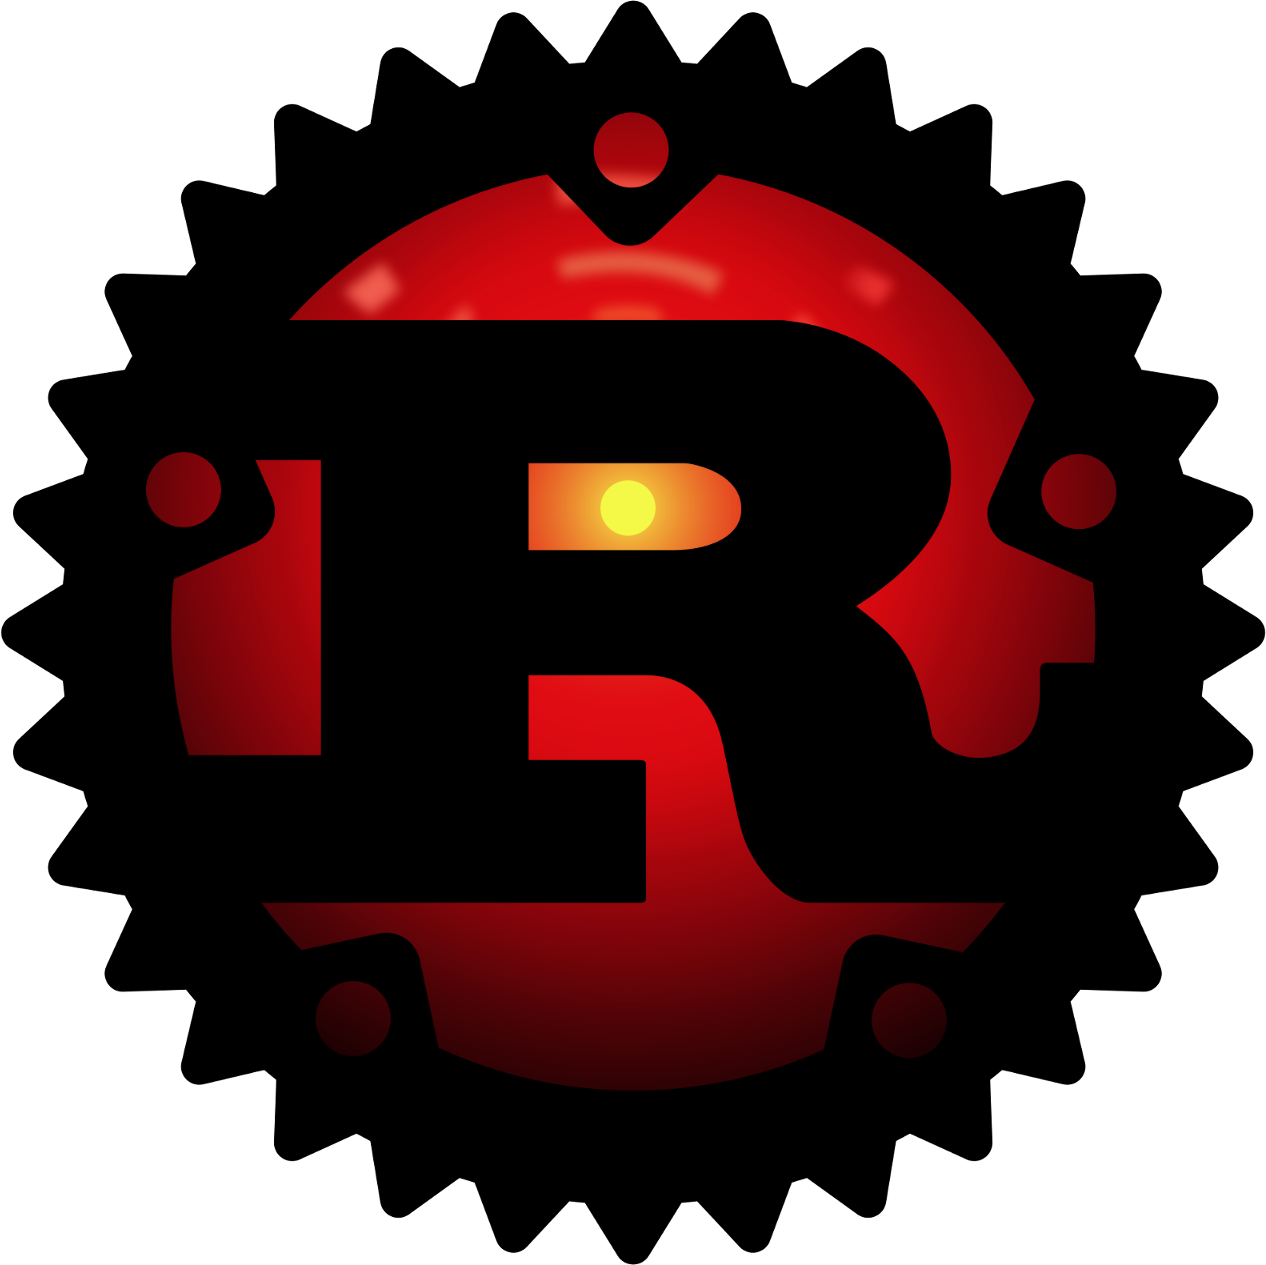
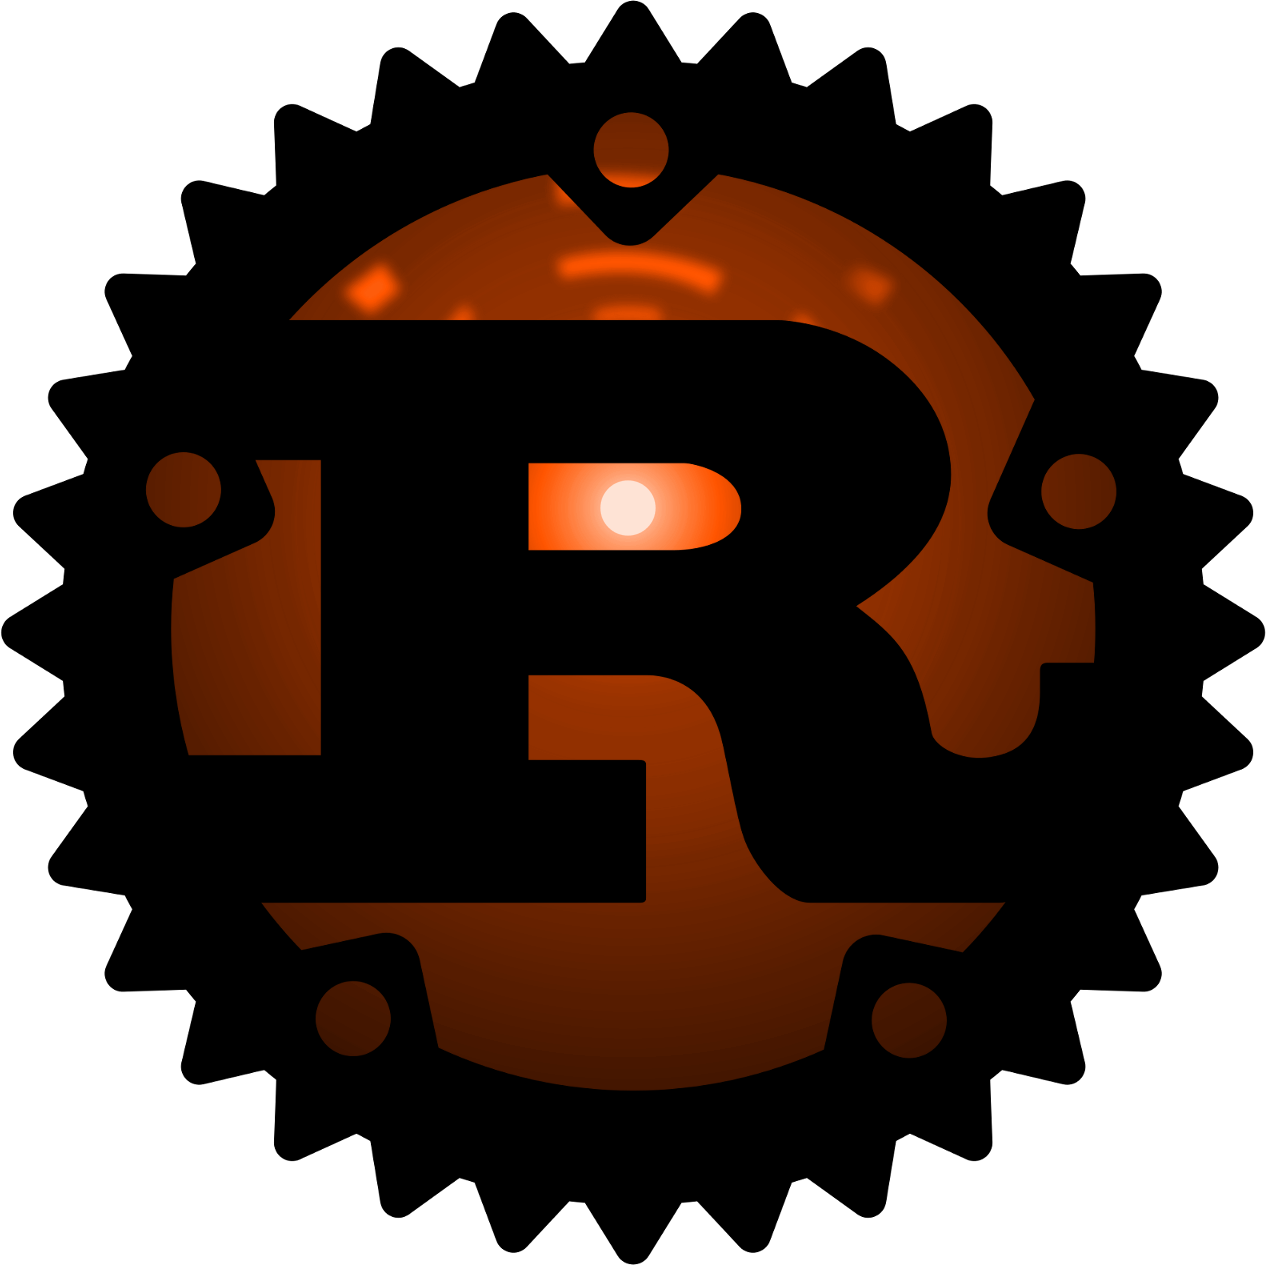
Lots of style cleanup

diff --git a/_sass/_base.scss b/_sass/_base.scss
@@ -31,15 +31,6 @@ a:active {
   color: darken($primary-color, 15%);
 }
 
-
-.github-fork-ribbon {
-    &:before, &:after {
-        background-color: #eee;
-        border-color: #333;
-    }
-    &:after { color: #333; }
-}
-
 h1 {
     padding-top: 20px;
     letter-spacing: -0.2rem;
@@ -58,30 +49,47 @@ b, strong {
 
 .site-header {
     padding: 5px 0;
-    font-size: 2rem;
+    font-size: 20px;
     line-height: 24px;
-    img { width: 24px; height: 24px; }
     background-color: #333;
+    img {
+        width: 24px;
+        height: 24px;
+        margin-top: -3px;
+    }
 }
 
 .site-footer {
-    margin: 20px 0;
+    margin: 10px 0 0px;
 }
 
 .site-nav-link {
   padding-left: 20px;
 }
-.site-header {
-  font-size: 24px;
-}
 
 .hero {
-    padding-top: 40px;
-    padding-bottom: 40px;
+    position: relative;
+    padding-top: 60px;
+    padding-bottom: 60px;
     min-height: 360px;
     background-color: #333;
+    background-image:url('/images/gears.jpg');
     color: #ccc;
     margin-bottom: 0px;
+}
+
+.hero h3 {
+    margin-bottom: 20px;
+}
+
+.color-overlay {
+   position: absolute;
+   top: 0;
+   left: 0;
+   width: 100%;
+   height: 100%;
+   background-color: #282828; //darken(#b7410e, 28%);
+   opacity: 0.92;
 }
 
 .tldr-headline {
@@ -90,8 +98,9 @@ b, strong {
     font-weight: bold;
     text-align: center;
     line-height: 2.75rem;
+    padding-top: 20px;
     padding-bottom: 40px;
-    // background-color: #333;
+
 }
 
 .page-content {
@@ -104,7 +113,7 @@ b, strong {
 
 .section {
     padding-top: 60px;
-    padding-bottom: 40px;
+    padding-bottom: 60px;
 }
 
 .tiles {
@@ -125,10 +134,11 @@ b, strong {
     justify-content: center;
     border-width: 4px 1px 1px 1px;
     border-style: solid;
+    margin-bottom: 20px;
 }
 
 a:hover .tile {
-    background-color: #393939;
+    color: #ccc;
 }
 
 .green { color: $status-green; }
@@ -147,13 +157,27 @@ a:hover .tile {
     border-color: $status-red;
 }
 
+.post-content {
+    margin-bottom: 60px;
+}
+
 .followup {
-    margin-top: 50px;
+    margin-top: 60px;
+    margin-bottom: 20px;
     text-align: center;
     padding: 20px 0;
     border: 2px solid orange; /* TODO: using colors by name is basically never good design */
 }
 
+.github-corner {
+    position: absolute;
+    z-index: 100;
+}
+
+.crate-stat {
+    padding-right: 30px;
+    white-space: nowrap;
+}
 
 @media screen and (max-width: 47.9em) {
     .hide-xs { display: none; }

diff --git a/index.html b/index.html
@@ -8,17 +8,18 @@ skip_tiles: [3,4,8]
 
 <div>
   <div class="hero">
-    <div class="container">
+    <div class="color-overlay"></div>
+    <div class="container" style="position:relative; max-width: 60rem;">
       <div class="row">
         <div class="col-xs-12 col-sm-3 col-md-4 last-sm last-md" style="text-align: center;">
-          <img src="/images/rust-9000.png" style="width:250px; margin-top: 40px;">
+          <img src="/images/rust-9000.png" style="width:300px; margin-top: 20px;">
         </div>
         <div class="col-xs-12 col-sm-9 col-md-8">
           <h1>Are we <strong>learning</strong> yet?</h1>
           <p style="margin-top: 60px; position: relative;">
             <span>A work-in-progress to catalog</span>
             <br>&nbsp;&nbsp;&nbsp;&nbsp;&nbsp;&nbsp;&nbsp;&nbsp;&nbsp;
-            the state of <b style="color: #f4f846">machine learning in Rust</b>
+            the state of <b style="color: #b7410e">machine learning in Rust</b>
           </p>
         </div>
       </div>
@@ -49,8 +50,9 @@ skip_tiles: [3,4,8]
     </p>
   </div>
 
-  <div class="hero">
-    <div class="container">
+  <div class="hero" style="background-position: center 70%;">
+    <div class="color-overlay"></div>
+    <div class="container" style="position:relative;">
 
       <h3>Rust Machine Learning Ecosystem</h3>
       <div class="row tiles">

diff --git a/_layouts/crates.html b/_layouts/crates.html
@@ -41,21 +41,17 @@ layout: default
       <div style="font-size: small;">
 
         {%if crate.license %}
-          <b>License</b>: {{crate.license}}
-          &nbsp;&nbsp;&nbsp;&nbsp;&nbsp;&nbsp;&nbsp;&nbsp;
+          <span class="crate-stat"><b>License</b>: {{crate.license}}</span>
         {% endif %}
         {%if crate.github %}
-          <b>Last Commit</b>: {{crate.last_commit | date: "%d %b %Y"}}
-          &nbsp;&nbsp;&nbsp;&nbsp;&nbsp;&nbsp;&nbsp;&nbsp;
+          <span class="crate-stat"><b>Last Commit</b>: {{crate.last_commit | date: "%d %b %Y"}}</span>
         {% endif %}
         {%if crate.name %}
-          <b>Last Published</b>: {{crate.updated_at | date: "%d %b %Y"}}
-          &nbsp;&nbsp;&nbsp;&nbsp;&nbsp;&nbsp;&nbsp;&nbsp;
+          <span class="crate-stat"><b>Last Published</b>: {{crate.updated_at | date: "%d %b %Y"}}</span>
         {% endif %}
         {%if crate.github %}
-          <b>Contributors</b>: {{crate.contributor_count}}
-          &nbsp;&nbsp;&nbsp;&nbsp;&nbsp;&nbsp;&nbsp;&nbsp;
-          <b>Open Issues</b>: {{crate.open_issues_count}}
+          <span class="crate-stat"><b>Contributors</b>: {{crate.contributor_count}}</span>
+          <span class="crate-stat"><b>Open Issues</b>: {{crate.open_issues_count}}</span>
         {% endif %}
       </div>
     </div>

diff --git a/_includes/footer.html b/_includes/footer.html
@@ -1,5 +1,18 @@
 <footer class="site-footer">
   <div class="container">
-    <div style="text-align: center;">2016 - Are we learning yet?</div>
+
+    <nav class="site-nav" style="text-align: center; font-size: smaller;">
+      {% assign pages = site.pages | sort: "navindex" %}
+      {% for page in pages %}
+        {% if page.navindex && page.title %}
+          <span style="padding: 15px;">
+            <a class="page-link" href="{{ page.url | prepend: site.baseurl }}">{{ page.title }}</a>
+          </span>
+        {% endif %}
+      {% endfor %}
+    </nav>
+
+    <div style="text-align: center; font-size: small;">2016 - Are we learning yet?</div>
+
   </div>
 </footer>

diff --git a/_includes/head.html b/_includes/head.html
@@ -10,4 +10,11 @@
   <link rel="stylesheet" href="{{ "/css/main.css" | prepend: site.baseurl }}">
 
   <link rel="canonical" href="{{ page.url | replace:'index.html','' | prepend: site.baseurl | prepend: site.url }}">
+
+  <link rel="apple-touch-icon" sizes="180x180" href="/apple-touch-icon.png">
+  <link rel="icon" type="image/png" href="/favicon-32x32.png" sizes="32x32">
+  <link rel="icon" type="image/png" href="/favicon-16x16.png" sizes="16x16">
+  <link rel="manifest" href="/manifest.json">
+  <link rel="mask-icon" href="/safari-pinned-tab.svg" color="#b7410e">
+  <meta name="theme-color" content="#b7410e">
 </head>

diff --git a/_includes/header.html b/_includes/header.html
@@ -2,14 +2,11 @@
 
   <div class="container">
 
-    {% if page.url != '/' %}
-      <a class="site-title" href="{{ site.baseurl }}/">
-        <img src="/images/rust-9000.png" style="vertical-align:middle;">
-        {{ site.title }}
-      </a>
-    {% else %}
-      &nbsp;
-    {% endif %}
+    <a class="site-title" href="{{ site.baseurl }}/">
+      <img src="/images/rust-9000.png" style="vertical-align:middle;">
+      {{ site.title }}
+    </a>
+
     <nav class="site-nav" style="float:right;">
       {% assign pages = site.pages | sort: "navindex" %}
       {% for page in pages %}

diff --git a/css/main.scss b/css/main.scss
@@ -8,7 +8,7 @@ $base-font-family: Fira Sans, Helvetica Neue, Helvetica, Arial, sans-serif;
 $mono-font-family: "Source Code Pro", Menlo, Monaco, Consolas, "DejaVu Sans Mono", Inconsolata, monospace;
 
 $text-color:        #777;
-$primary-color:	    #b33;
+$primary-color:	    #b7410e;
 
 $status-green:  #81f300;
 $status-yellow: #ffee40;

diff --git a/_layouts/default.html b/_layouts/default.html
@@ -5,7 +5,9 @@
 
   <body>
 
-    {% include header.html %}
+    {% if page.url != '/' %}
+      {% include header.html %}
+    {% endif %}
 
     <div class="page-content">
       {{ content }}
